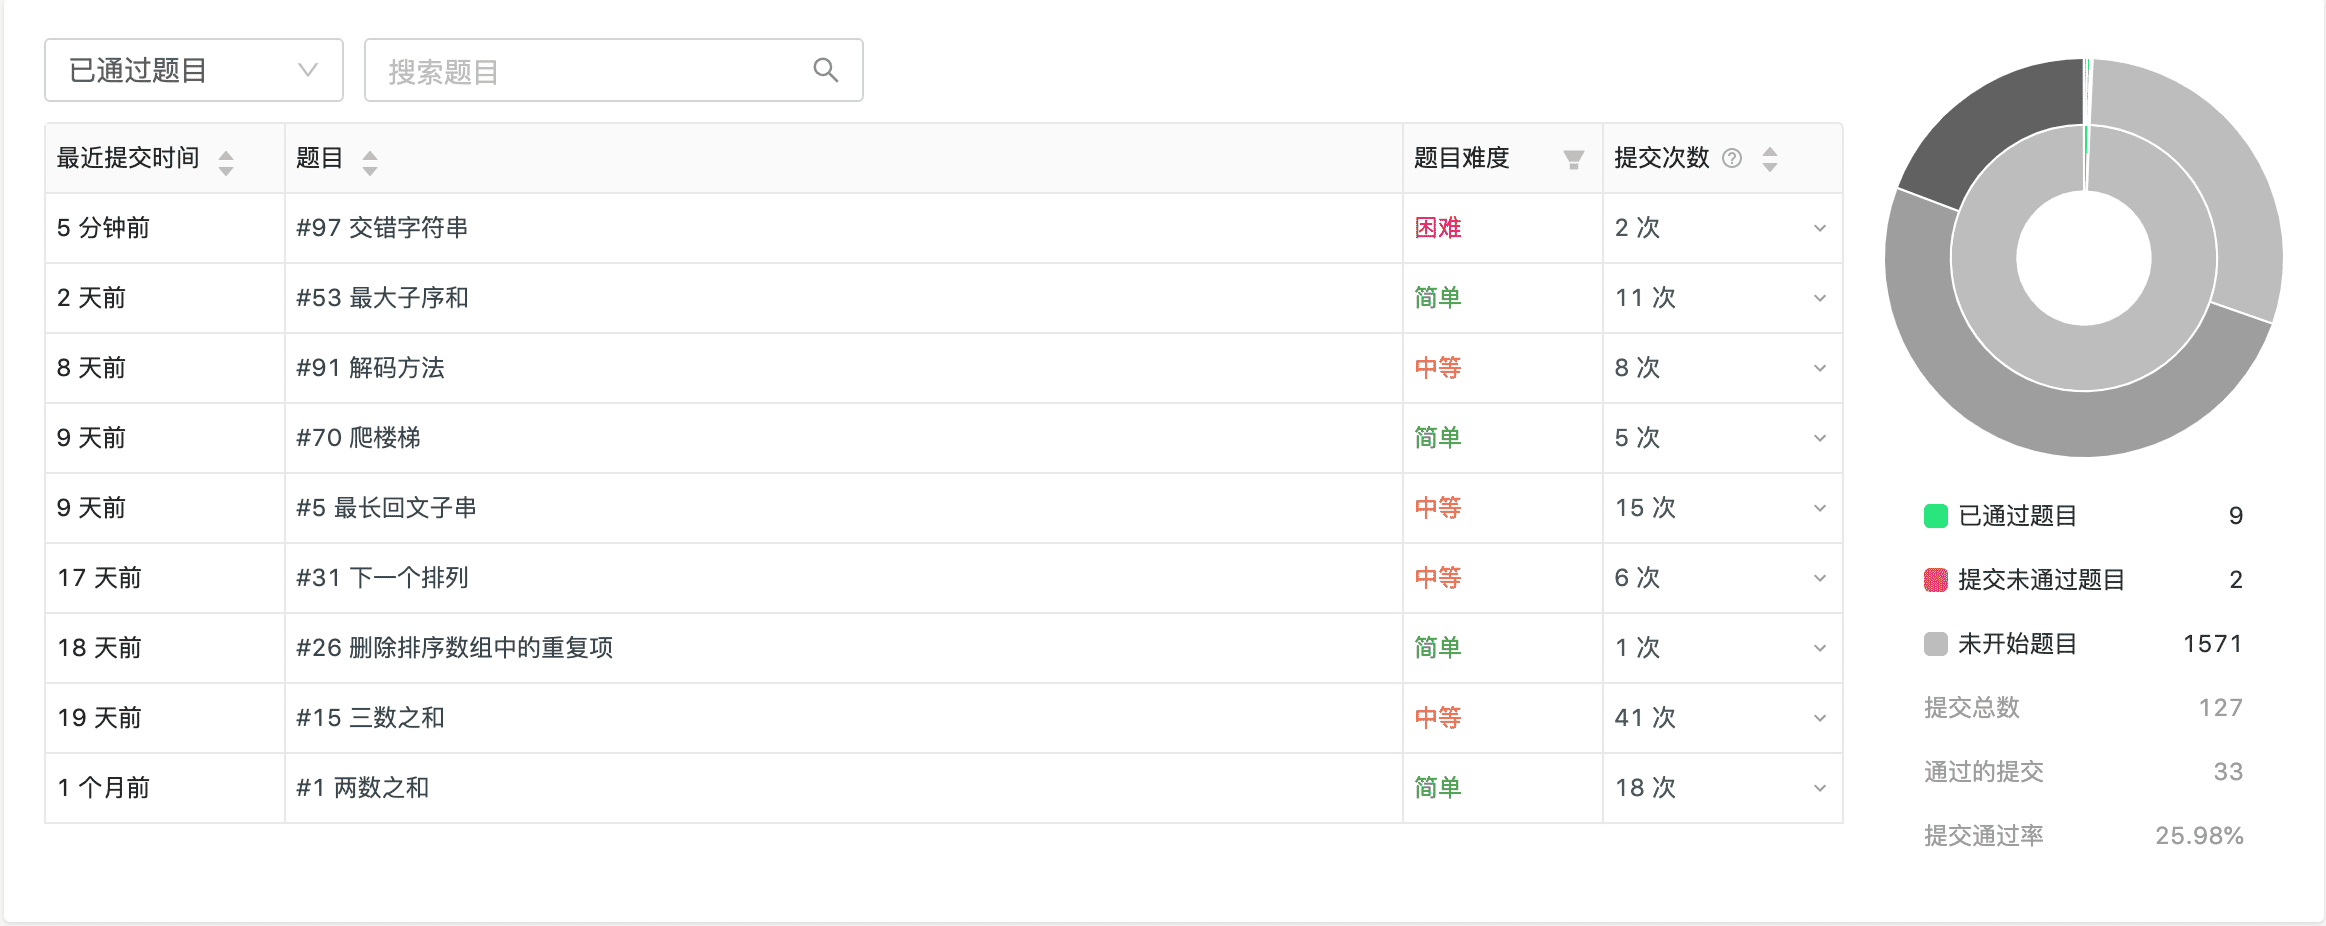
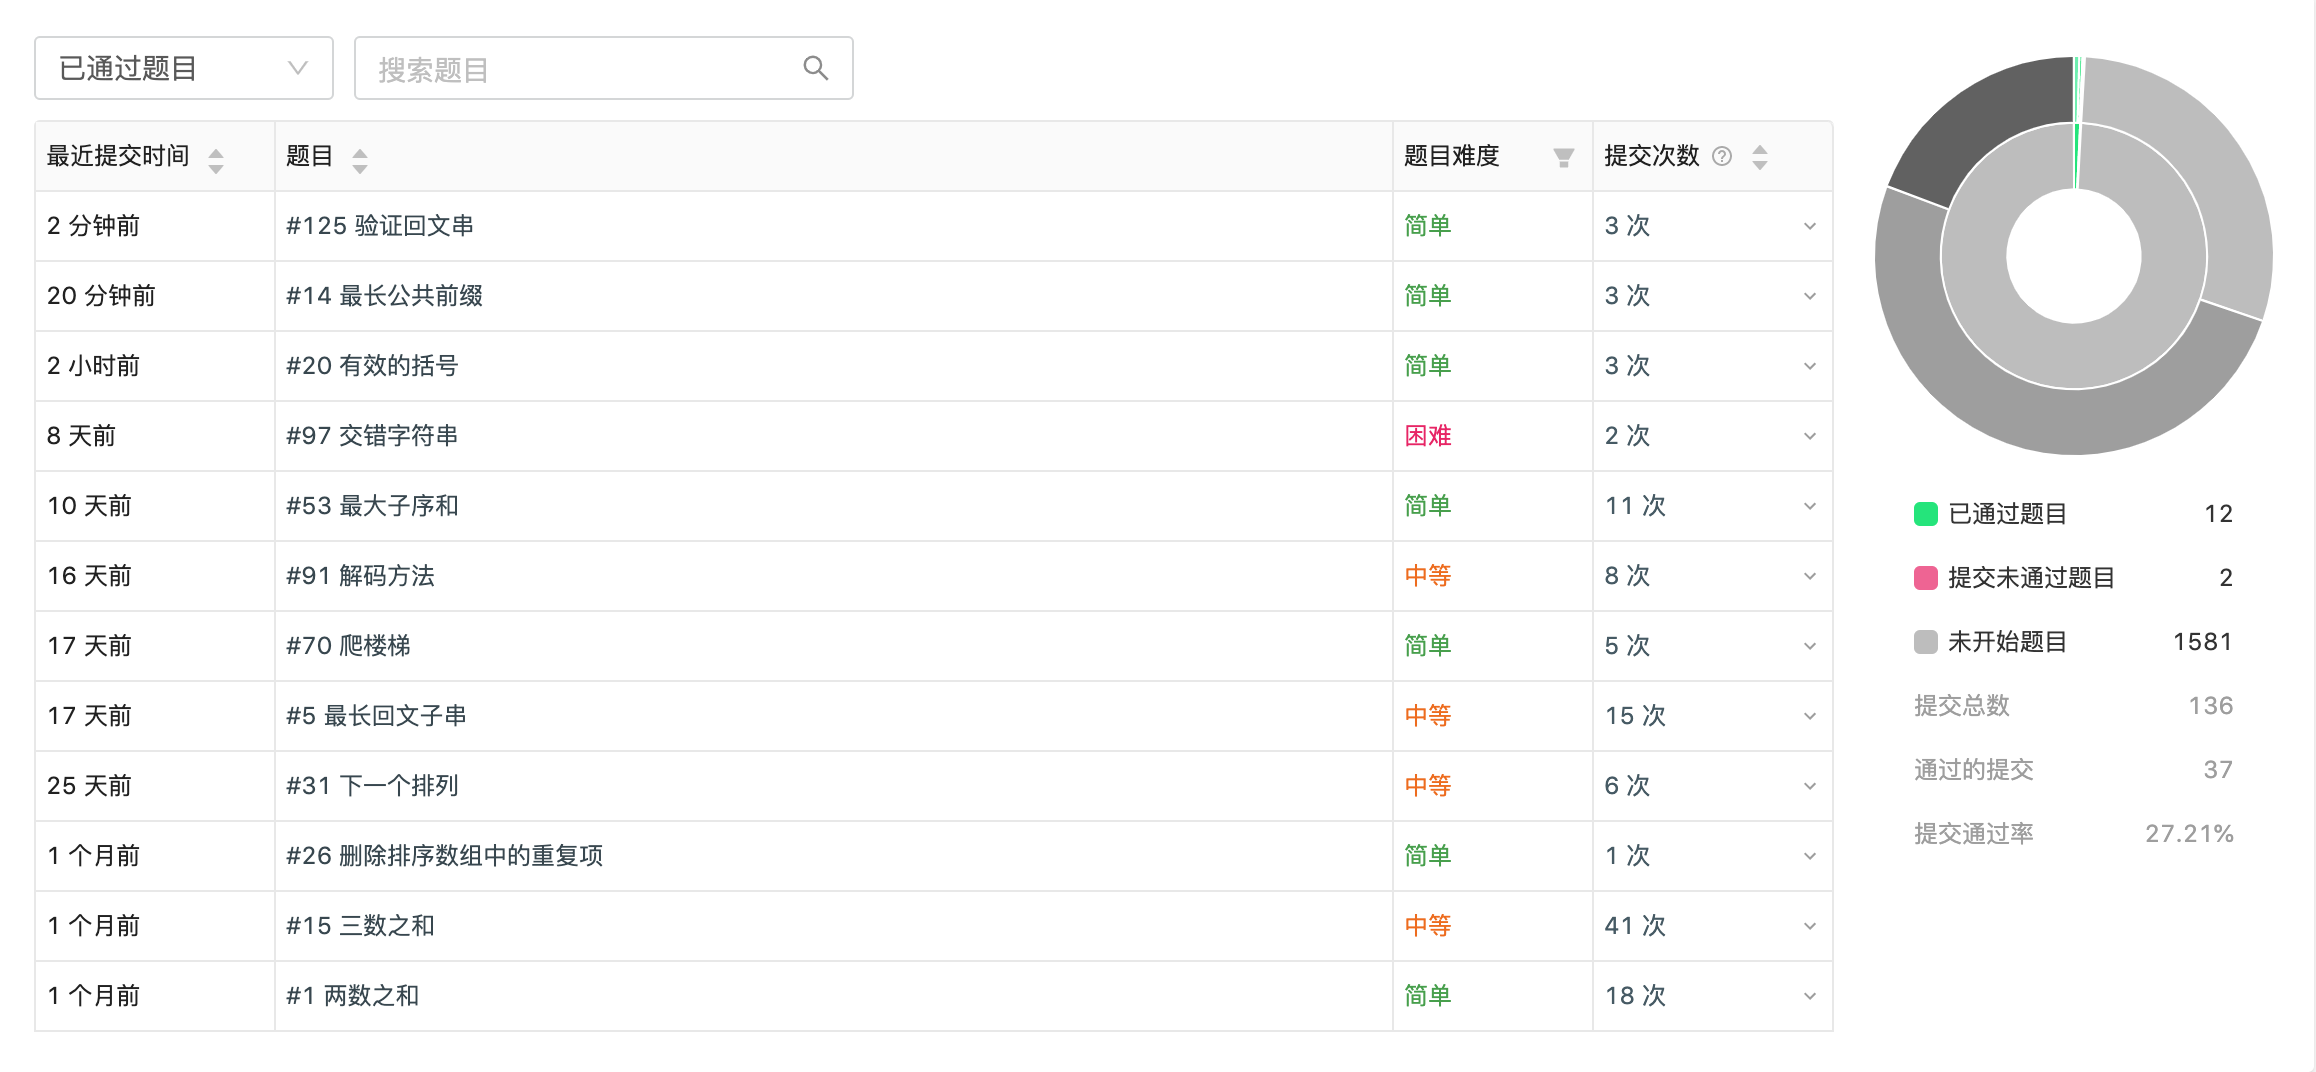
字符串

diff --git a/huyi/week3-string/有效的括号.md b/huyi/week3-string/有效的括号.md
@@ -1,0 +1,95 @@
+## 有效的括号
+
+### 题目
+```javascript
+//给定一个只包括 '('，')'，'{'，'}'，'['，']' 的字符串，判断字符串是否有效。
+//
+// 有效字符串需满足：
+//
+//
+// 左括号必须用相同类型的右括号闭合。
+// 左括号必须以正确的顺序闭合。
+//
+//
+// 注意空字符串可被认为是有效字符串。
+//
+// 示例 1:
+//
+// 输入: "()"
+//输出: true
+//
+//
+// 示例 2:
+//
+// 输入: "()[]{}"
+//输出: true
+//
+//
+// 示例 3:
+//
+// 输入: "(]"
+//输出: false
+//
+//
+// 示例 4:
+//
+// 输入: "([)]"
+//输出: false
+//
+//
+// 示例 5:
+//
+// 输入: "{[]}"
+//输出: true
+// Related Topics 栈 字符串
+
+
+//leetcode submit region begin(Prohibit modification and deletion)
+/**
+ * @param {string} s
+ * @return {boolean}
+ */
+var isValid = function (s) {
+};
+//leetcode submit region end(Prohibit modification and deletion)
+```
+
+### 思路
+- 空字符串为有效
+- 奇数长度一定无效
+- 左入栈，右出栈，最终栈空间为0则有效，否则无效
+
+### 代码
+```javascript
+var isValid = function (s) {
+  if (s === undefined) return false;
+
+  var len = s.length;
+
+  if (len === 0) return true;
+
+  // 奇数位则为 false
+  if (len % 2 === 1) return false;
+
+  var mapping = {
+    '{': '}',
+    '[': ']',
+    '(': ')'
+  };
+
+  var buffer = [], leftKeys = Object.keys(mapping);
+  for (var i = 0; i < len; i++) {
+    if (leftKeys.includes(s[i])) {
+      buffer.push(s[i]);
+    } else {
+      if (i > 0 && buffer.length > 0 && mapping[buffer[buffer.length - 1]] === s[i]) {
+        buffer.pop();
+      } else {
+        buffer.push(s[i])
+      }
+    }
+  }
+
+  return buffer.length === 0;
+};
+```

diff --git a/huyi/readme.md b/huyi/readme.md
@@ -16,3 +16,5 @@
 3. [解码方法](./week2-dynamic/解码方法.md)
 4. [最大子序和](week2-dynamic/最大子序和.md)
 
+## [字符串](./week3-string)
+1. [有效的括号](./week3-string/有效的括号.md)

diff --git a/huyi/week3-string/readme.md b/huyi/week3-string/readme.md
@@ -1,0 +1,3 @@
+
+## 数组
+1. [有效的括号](./有效的括号.md)
